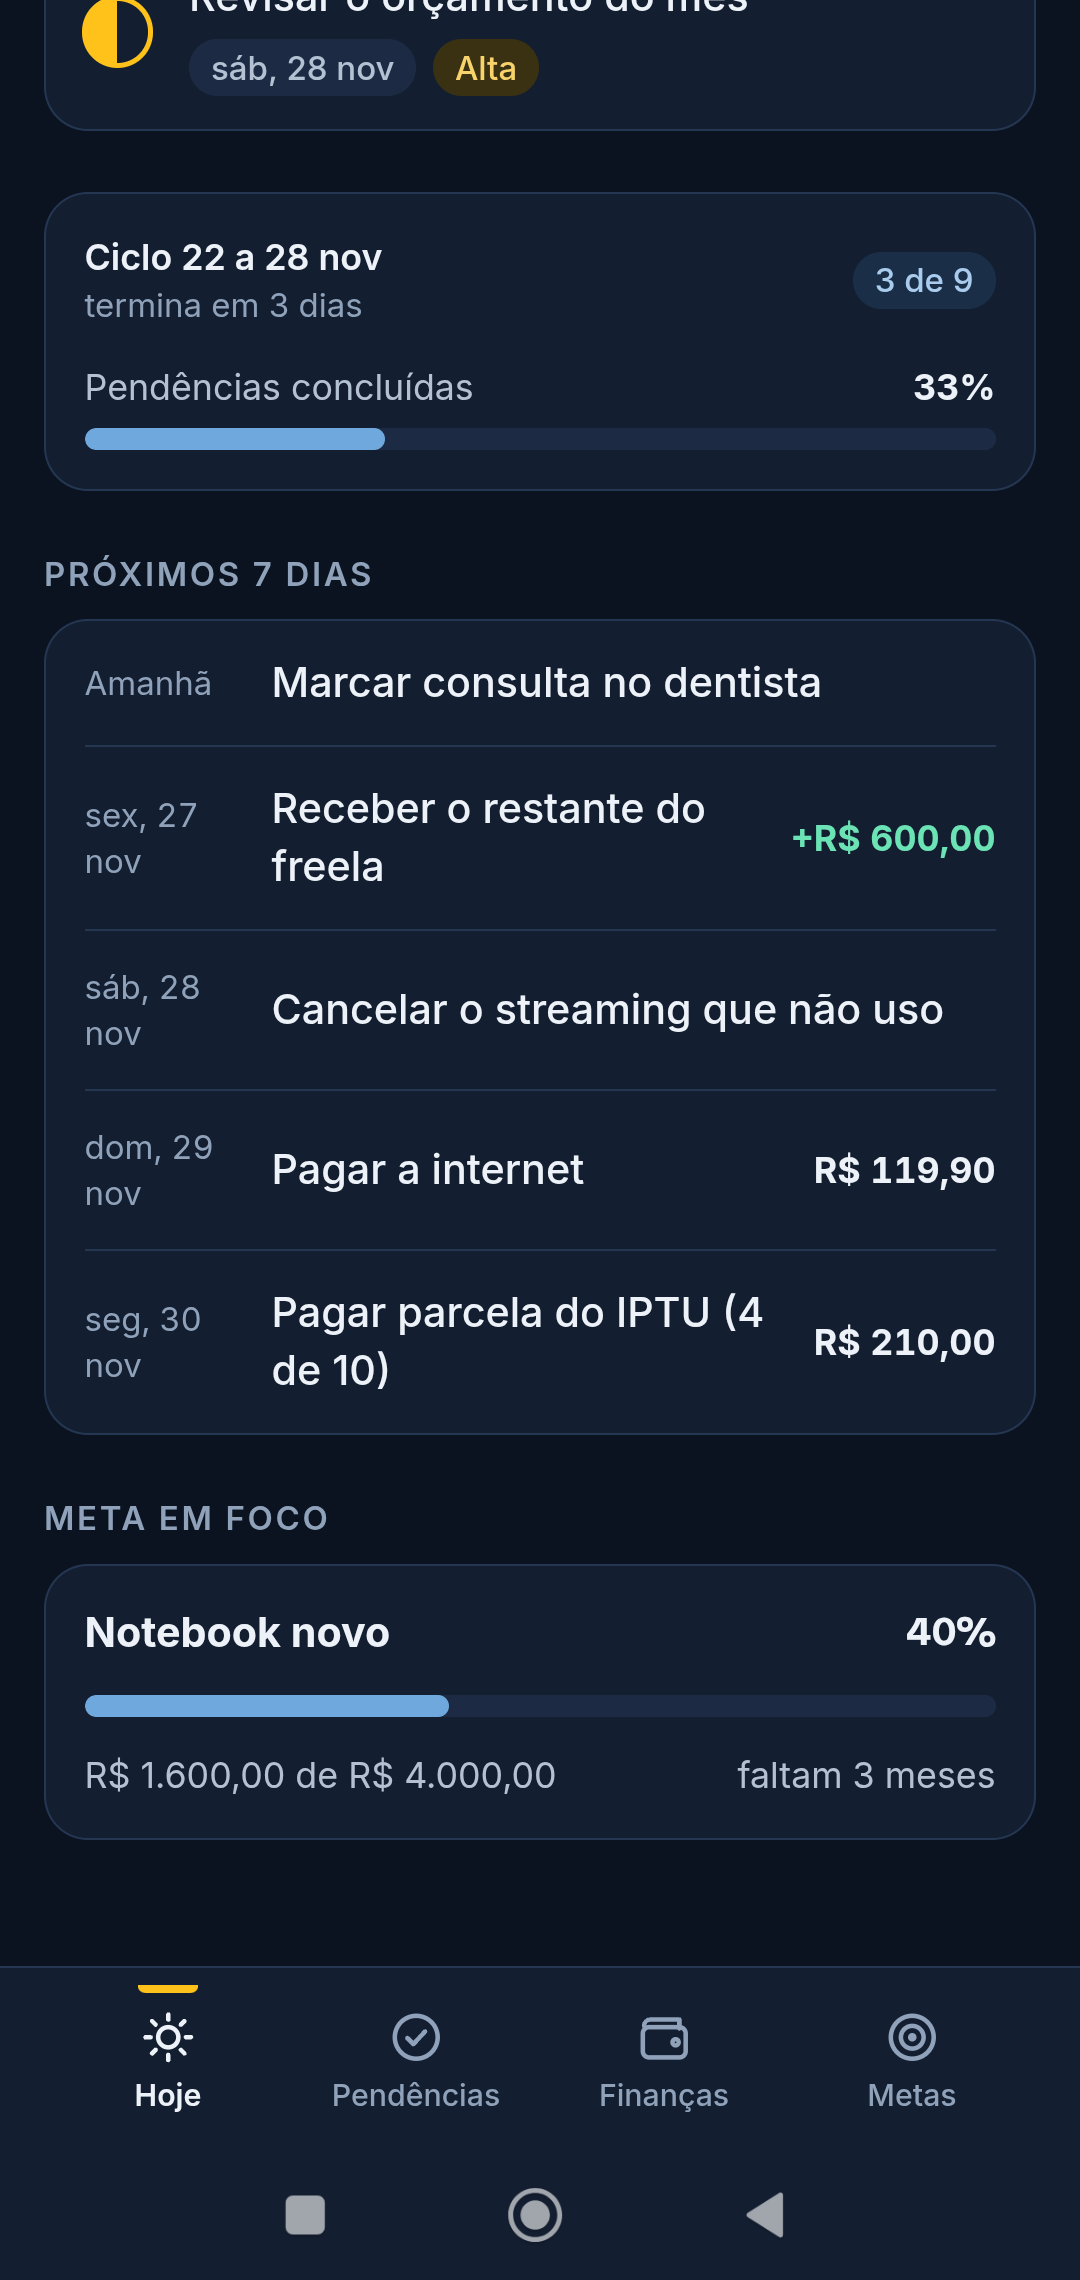
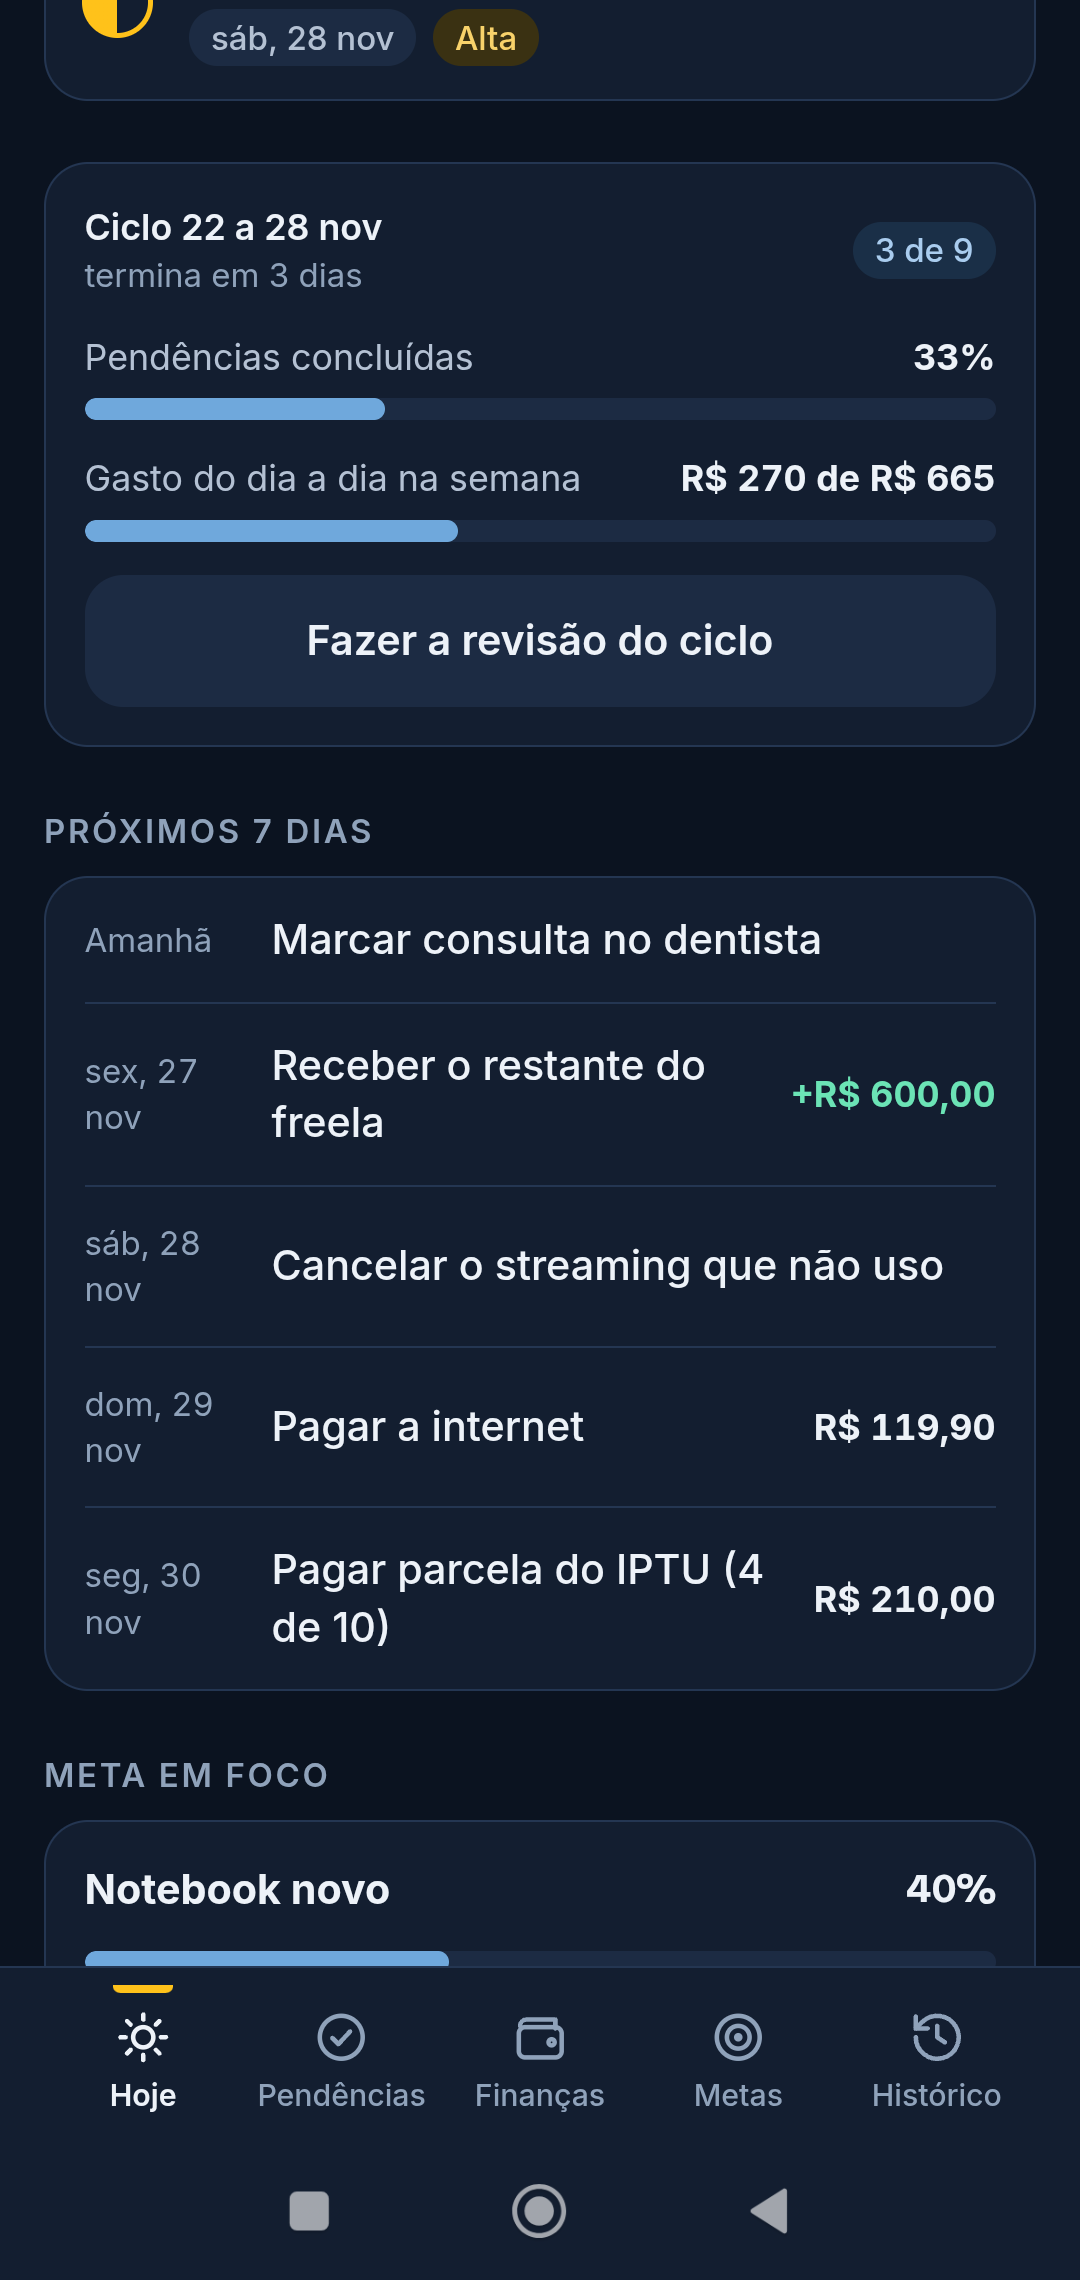
docs: README com os 16 prints do app, incluindo o Histórico
Os prints de Hoje, Pendências, Finanças e Metas foram refeitos com a barra de
cinco abas e os valores atuais; entram os do Histórico e da revisão do ciclo.

diff --git a/README.md b/README.md
@@ -10,18 +10,28 @@ Capturas do app no Android, com dados de exemplo.
 
 <table>
   <tr>
-    <td align="center"><img src="doc/screenshots/01-hoje.png" width="170" alt="Hoje: quanto posso gastar, pendências do dia e ciclo"><br><sub><b>Hoje</b><br>quanto posso gastar</sub></td>
-    <td align="center"><img src="doc/screenshots/02-hoje-continuacao.png" width="170" alt="Hoje: ciclo, próximos 7 dias e meta em foco"><br><sub><b>Hoje, abaixo</b><br>próximos 7 dias e meta em foco</sub></td>
-    <td align="center"><img src="doc/screenshots/03-pendencias.png" width="170" alt="Pendências do ciclo semanal em A fazer, Fazendo e Feito"><br><sub><b>Pendências</b><br>ciclo semanal</sub></td>
-    <td align="center"><img src="doc/screenshots/04-pendencias-backlog.png" width="170" alt="Backlog de pendências"><br><sub><b>Backlog</b><br>o que ainda não tem semana</sub></td>
-    <td align="center"><img src="doc/screenshots/05-financas.png" width="170" alt="Finanças: envelopes do mês e saldo em conta"><br><sub><b>Finanças</b><br>envelopes do mês</sub></td>
+    <td align="center"><img src="doc/screenshots/01-hoje.png" width="200" alt="Hoje: quanto posso gastar, pendências do dia e saldo"><br><sub><b>Hoje</b><br>quanto posso gastar</sub></td>
+    <td align="center"><img src="doc/screenshots/02-hoje-continuacao.png" width="200" alt="Hoje: cartão do ciclo, próximos 7 dias e meta em foco"><br><sub><b>Hoje, abaixo</b><br>ciclo, próximos 7 dias e meta</sub></td>
+    <td align="center"><img src="doc/screenshots/16-revisao-do-ciclo.png" width="200" alt="Folha da revisão do ciclo com as três perguntas"><br><sub><b>Revisão do ciclo</b><br>o que funcionou e o que muda</sub></td>
+    <td align="center"><img src="doc/screenshots/03-pendencias.png" width="200" alt="Pendências do ciclo semanal em A fazer, Fazendo e Feito"><br><sub><b>Pendências</b><br>ciclo semanal</sub></td>
   </tr>
   <tr>
-    <td align="center"><img src="doc/screenshots/06-financas-lancamentos.png" width="170" alt="Finanças: a pagar, a receber e lançamentos"><br><sub><b>Lançamentos</b><br>agrupados por dia</sub></td>
-    <td align="center"><img src="doc/screenshots/07-metas-curto-prazo.png" width="170" alt="Metas de curto prazo com progresso e ritmo necessário"><br><sub><b>Metas</b><br>curto prazo</sub></td>
-    <td align="center"><img src="doc/screenshots/08-metas-longo-prazo.png" width="170" alt="Metas de longo prazo"><br><sub><b>Metas</b><br>longo prazo</sub></td>
-    <td align="center"><img src="doc/screenshots/09-meta-aporte.png" width="170" alt="Aporte numa meta"><br><sub><b>Aporte</b><br>guardar numa meta</sub></td>
-    <td align="center"><img src="doc/screenshots/10-nova-meta.png" width="170" alt="Folha para criar uma nova meta"><br><sub><b>Nova meta</b><br>valor, prazo e quanto já tem</sub></td>
+    <td align="center"><img src="doc/screenshots/04-pendencias-backlog.png" width="200" alt="Backlog de pendências"><br><sub><b>Backlog</b><br>o que ainda não tem semana</sub></td>
+    <td align="center"><img src="doc/screenshots/05-financas.png" width="200" alt="Finanças: envelopes do mês e saldo em conta"><br><sub><b>Finanças</b><br>envelopes do mês</sub></td>
+    <td align="center"><img src="doc/screenshots/06-financas-lancamentos.png" width="200" alt="Finanças: a pagar, a receber e lançamentos"><br><sub><b>Lançamentos</b><br>agrupados por dia</sub></td>
+    <td align="center"><img src="doc/screenshots/07-metas-curto-prazo.png" width="200" alt="Metas de curto prazo com progresso e ritmo necessário"><br><sub><b>Metas</b><br>curto prazo</sub></td>
+  </tr>
+  <tr>
+    <td align="center"><img src="doc/screenshots/08-metas-longo-prazo.png" width="200" alt="Metas de longo prazo"><br><sub><b>Metas</b><br>longo prazo</sub></td>
+    <td align="center"><img src="doc/screenshots/09-meta-aporte.png" width="200" alt="Aporte numa meta"><br><sub><b>Aporte</b><br>guardar numa meta</sub></td>
+    <td align="center"><img src="doc/screenshots/10-nova-meta.png" width="200" alt="Folha para criar uma nova meta"><br><sub><b>Nova meta</b><br>valor, prazo e quanto já tem</sub></td>
+    <td align="center"><img src="doc/screenshots/11-historico-meses.png" width="200" alt="Histórico: entradas e saídas por mês"><br><sub><b>Histórico</b><br>entrou e saiu por mês</sub></td>
+  </tr>
+  <tr>
+    <td align="center"><img src="doc/screenshots/12-historico-meses-insights.png" width="200" alt="Histórico: insights e tabela dos meses"><br><sub><b>Insights</b><br>o que os números dizem</sub></td>
+    <td align="center"><img src="doc/screenshots/13-historico-ciclos.png" width="200" alt="Histórico: ciclos semanais com pendências e gasto"><br><sub><b>Ciclos</b><br>semana a semana</sub></td>
+    <td align="center"><img src="doc/screenshots/14-historico-revisoes.png" width="200" alt="Histórico: revisões dos ciclos"><br><sub><b>Revisões</b><br>o que você aprendeu</sub></td>
+    <td align="center"><img src="doc/screenshots/15-historico-cronologia.png" width="200" alt="Histórico: cronologia de lançamentos e pendências"><br><sub><b>Cronologia</b><br>o que aconteceu e o que custou</sub></td>
   </tr>
 </table>
 
